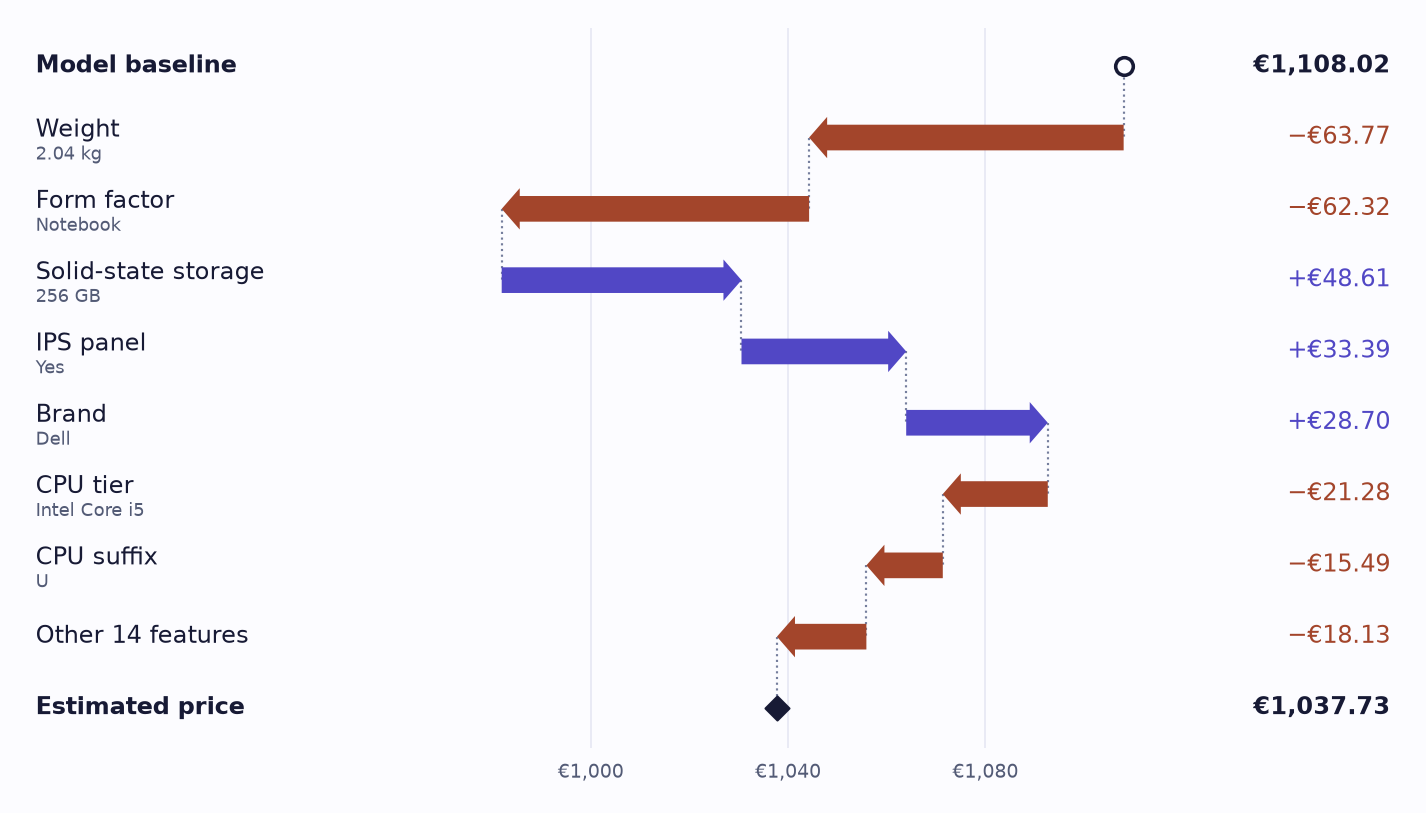
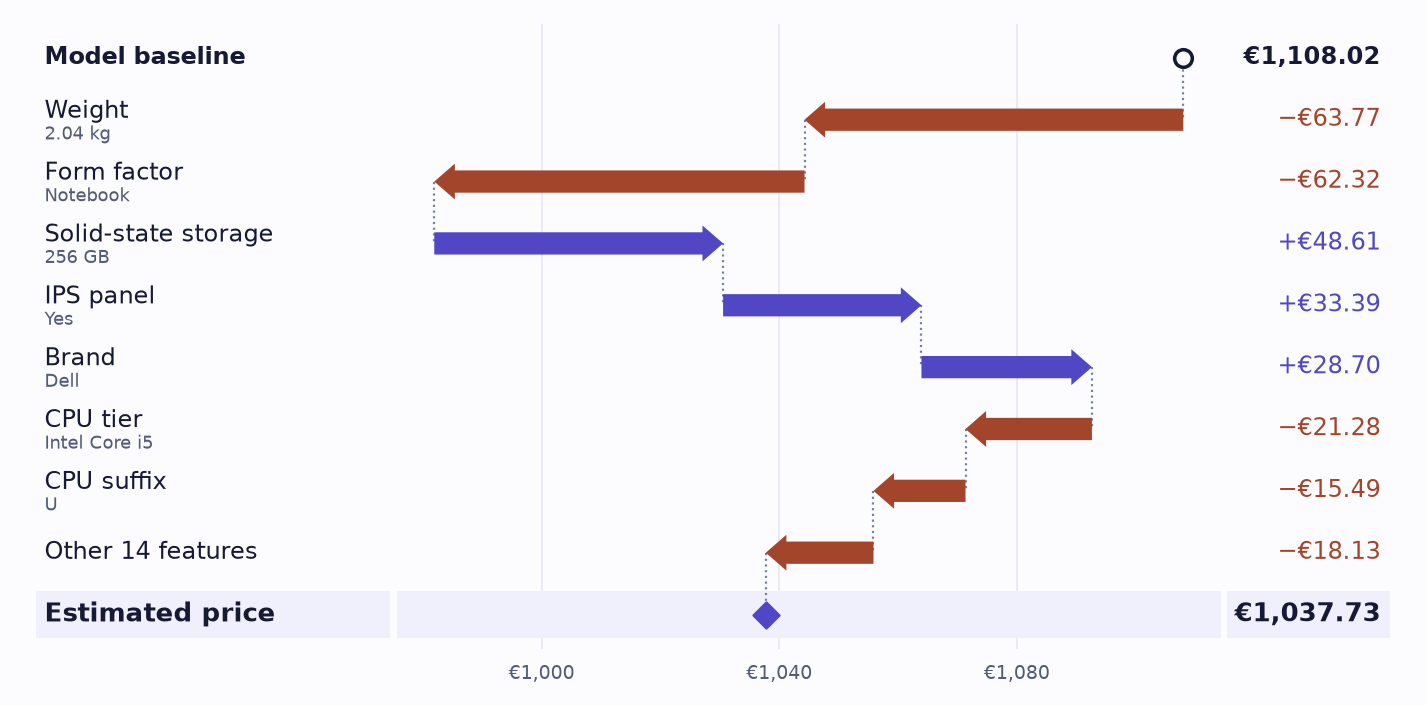
Tighten SHAP waterfall and highlight the final estimate

diff --git a/explanations.py b/explanations.py
@@ -11,6 +11,7 @@ from pricing import FEATURES
 
 SURFACE, INK, MUTED = "#FCFCFF", "#171A35", "#535B76"
 POSITIVE, NEGATIVE = "#5147C5", "#A3452B"
+ESTIMATE_SURFACE = "#F0F0FC"
 UNITS = {"Clock speed": "GHz", "Weight": "kg", "Memory": "GB", "Hard-drive storage": "GB",
          "Solid-state storage": "GB", "Screen size": "in", "Pixel density": "ppi",
          "Horizontal pixels": "px", "Vertical pixels": "px"}
@@ -69,21 +70,22 @@ def waterfall_png(baseline, price, totals, labels, limit=7):
         running += impact
     steps.append(("Estimated price", price, price, True))
 
-    fig = Figure(figsize=(9.2, 0.46 * len(steps) + .65), dpi=155, facecolor=SURFACE)
+    fig = Figure(figsize=(9.2, 0.40 * len(steps) + .55), dpi=155, facecolor=SURFACE)
     FigureCanvasAgg(fig)
-    left, bars, amounts = fig.subplots(1, 3, gridspec_kw={"width_ratios": [2.1, 3.8, 1.05]})
-    fig.subplots_adjust(left=.025, right=.975, top=.965, bottom=.42 / fig.get_figheight(), wspace=.04)
+    left, bars, amounts = fig.subplots(1, 3, gridspec_kw={"width_ratios": [1.85, 4.3, .85]})
+    fig.subplots_adjust(left=.025, right=.975, top=.965, bottom=.36 / fig.get_figheight(), wspace=.015)
     for ax in (left, bars, amounts):
         ax.set_facecolor(SURFACE)
         ax.set_ylim(len(steps) - .44, -.54)
         ax.set_yticks([])
         ax.spines[:].set_visible(False)
+        ax.axhspan(len(steps) - 1.38, len(steps) - .62, color=ESTIMATE_SURFACE, linewidth=0)
     for ax in (left, amounts):
         ax.set_xlim(0, 1)
         ax.set_xticks([])
     endpoints = [value for _, a, b, _ in steps for value in (a, b)]
     span = max(endpoints) - min(endpoints)
-    padding = max(10, span * .08)
+    padding = max(6, span * .05)
     bars.set_xlim(min(endpoints) - padding, max(endpoints) + padding)
     max_head = .025 * (span + 2 * padding)
     bars.xaxis.set_major_locator(MaxNLocator(nbins=4))
@@ -93,21 +95,22 @@ def waterfall_png(baseline, price, totals, labels, limit=7):
     bars.set_axisbelow(True)
     for i, (name, a, b, endpoint) in enumerate(steps):
         color = INK if endpoint else POSITIVE if b > a else NEGATIVE if b < a else MUTED
-        left.text(0, i-.10 if name in labels else i, name, color=INK, va="center",
-                  fontsize=11, weight="bold" if endpoint else "medium")
+        font_size = 12 if i == len(steps) - 1 else 11
+        left.text(.025, i-.13 if name in labels else i, name, color=INK, va="center",
+                  fontsize=font_size, weight="bold" if endpoint else "medium")
         if name in labels:
-            left.text(0, i+.24, shorten(labels[name], width=27, placeholder="…"),
+            left.text(.025, i+.24, shorten(labels[name], width=27, placeholder="…"),
                       va="center", color=MUTED, fontsize=8.4)
         if i == 0:
             bars.scatter(b, i, s=67, facecolor=SURFACE, edgecolor=INK, linewidth=1.65, zorder=4)
         elif endpoint:
-            bars.scatter(b, i, s=62, marker="D", color=INK, zorder=4)
+            bars.scatter(b, i, s=74, marker="D", color=POSITIVE, zorder=4)
         else:
             draw_step(bars, a, b, i, color, max_head)
         if i < len(steps)-1:
             bars.plot([b, b], [i, i + 1], color="#757E9D", lw=1, ls=":", zorder=2)
         label = f"€{b:,.2f}" if endpoint else signed_euros(b - a)
-        amounts.text(1, i, label, ha="right", va="center", fontsize=11, color=color,
+        amounts.text(.94, i, label, ha="right", va="center", fontsize=font_size, color=color,
                      weight="bold" if endpoint else "medium")
     image = BytesIO()
     fig.savefig(image, format="png")
